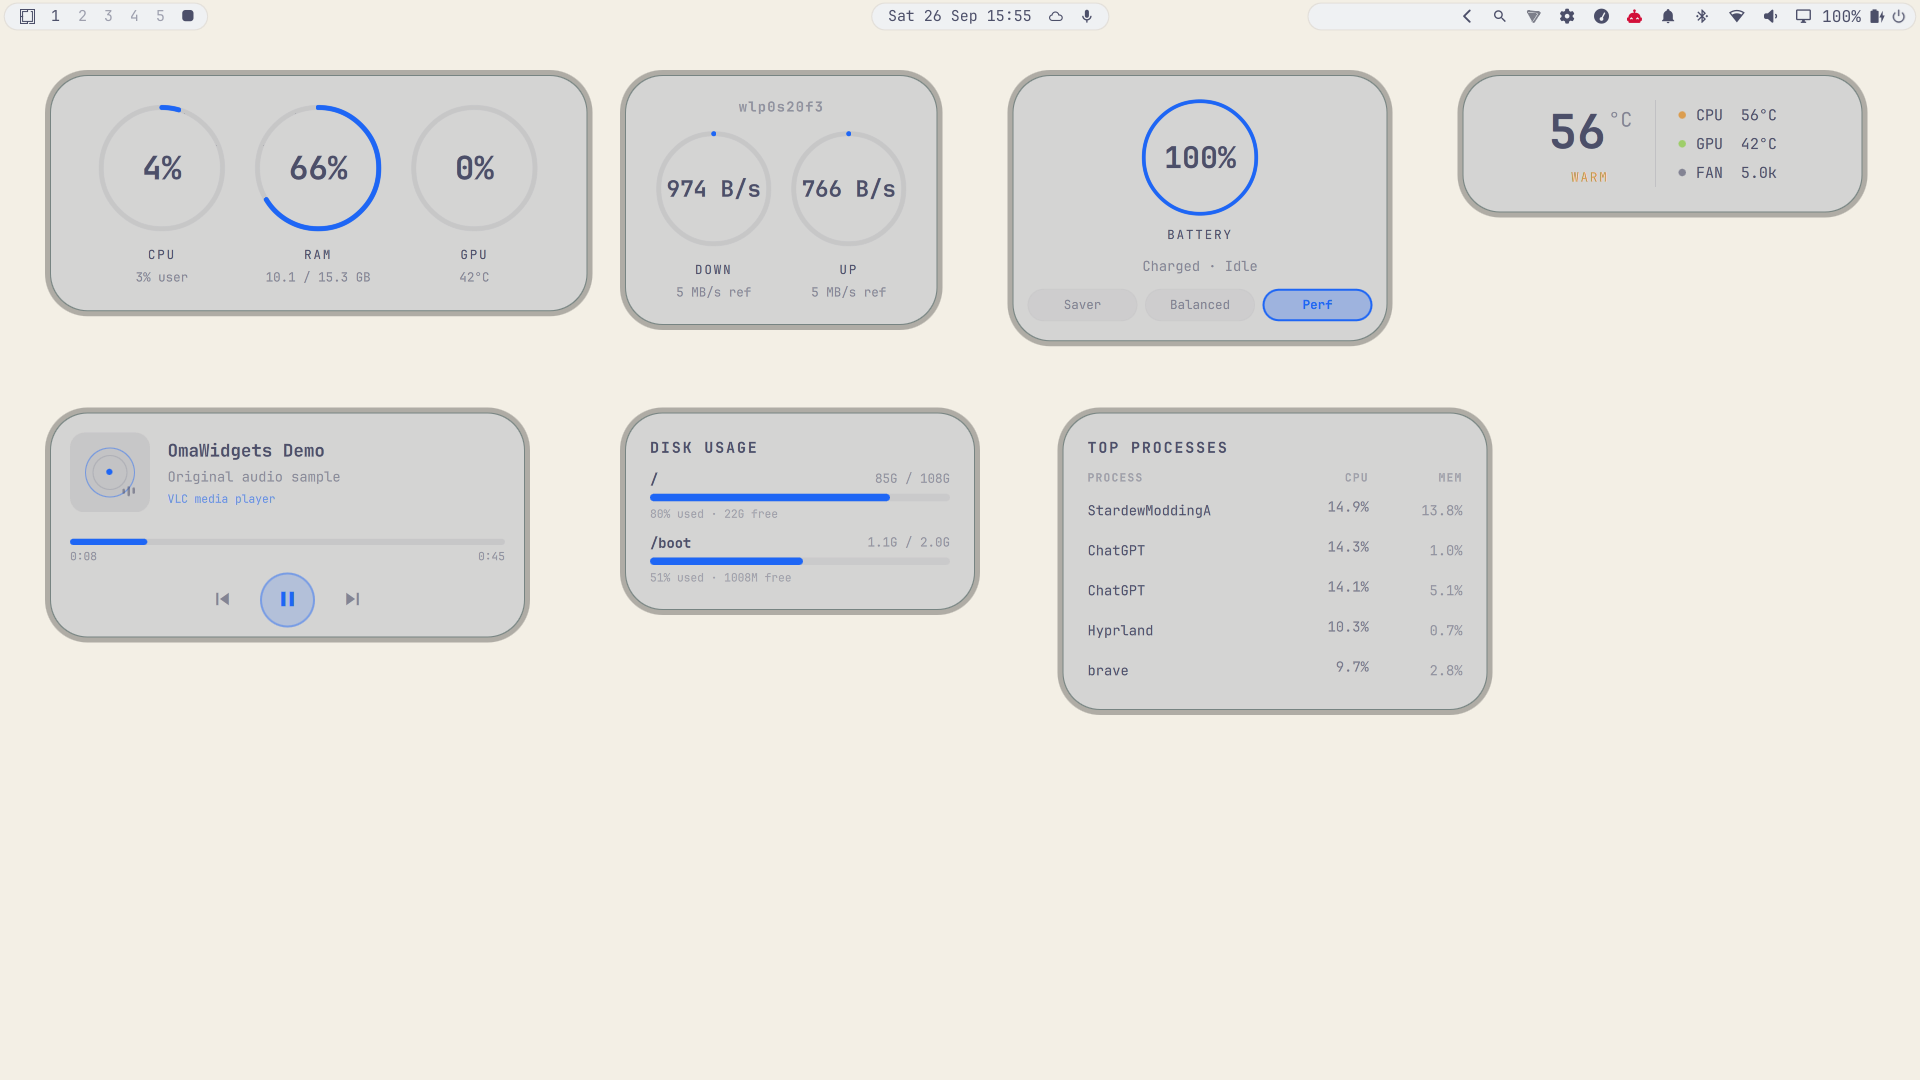
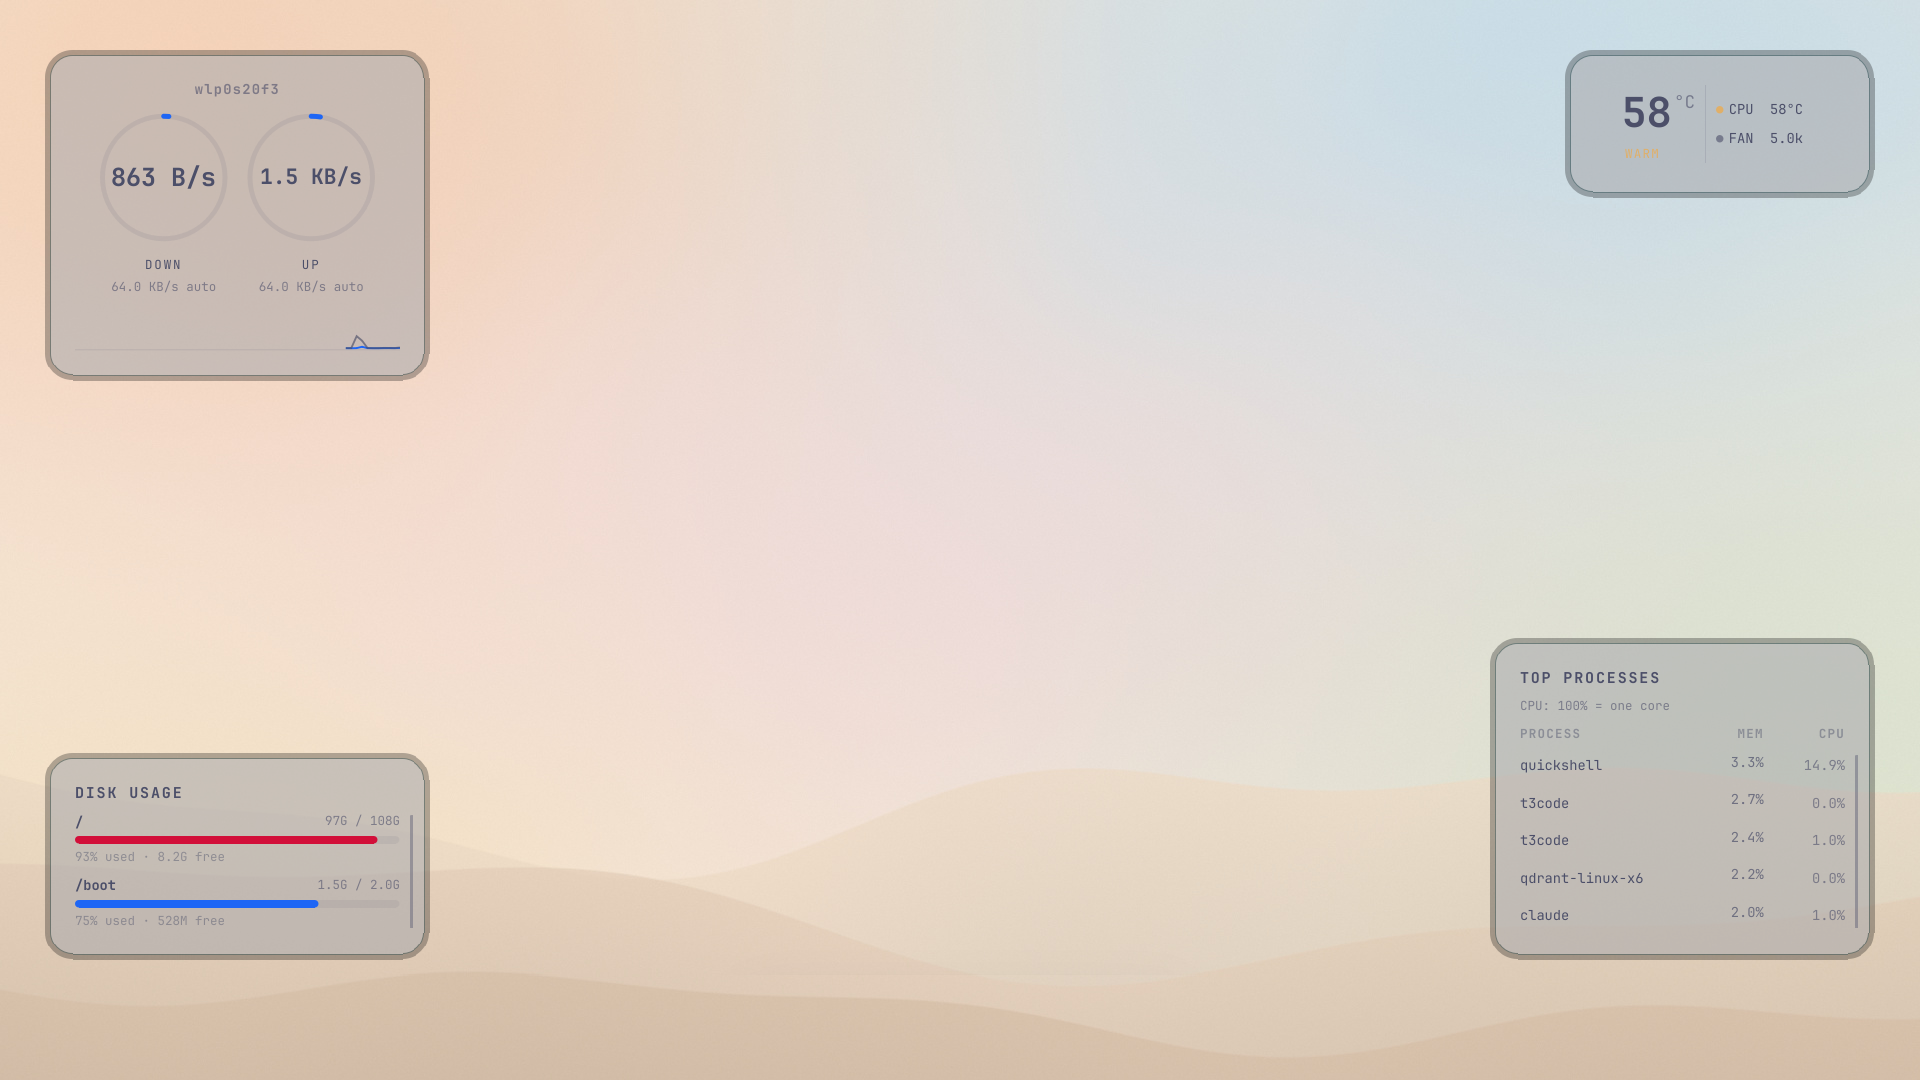
Refresh screenshots, add a marketplace poster and original wallpapers
preview.png is now a designed thumbnail for the Omarchy plugin
marketplace, built from real card captures. The desktop screenshots
use minimal real-size layouts on original generated wallpapers.

diff --git a/README.md b/README.md
@@ -13,10 +13,10 @@
 </p>
 
 <p align="center">
-  <img src="assets/omaglimpse-desktop.png" alt="OmaGlimpse cards on one Omarchy desktop" width="900">
+  <img src="preview.png" alt="OmaGlimpse: theme-aware desktop widgets for Omarchy" width="900">
 </p>
 
-<p align="center"><em>All seven cards on one desktop in Omarchy's Catppuccin theme. The media card is playing an original demo audio sample.</em></p>
+<p align="center"><em>System Monitor, Media, Battery and Temperature in Omarchy's Japan Night theme. The media card is playing an original demo audio sample.</em></p>
 
 ## Highlights
 
@@ -46,10 +46,12 @@ Every card can also be moved, resized, given an opacity and, optionally, set to 
 
 <table>
   <tr>
-    <td align="center"><img src="assets/omaglimpse-desktop.png" alt="OmaGlimpse in Omarchy's Catppuccin theme" width="440"><br><sub>Catppuccin (dark)</sub></td>
-    <td align="center"><img src="assets/omaglimpse-light.png" alt="OmaGlimpse in Omarchy's Catppuccin Latte theme" width="440"><br><sub>Catppuccin Latte (light)</sub></td>
+    <td align="center"><img src="assets/omaglimpse-desktop.png" alt="A minimal four-card OmaGlimpse layout in Omarchy's Japan Night theme" width="440"><br><sub>Japan Night (dark)</sub></td>
+    <td align="center"><img src="assets/omaglimpse-light.png" alt="Network, disk, process and temperature cards in Omarchy's Catppuccin Latte theme" width="440"><br><sub>Catppuccin Latte (light)</sub></td>
   </tr>
 </table>
+
+<p align="center"><sub>Wallpapers in these screenshots are original artwork made for this repo (<code>assets/wallpapers/</code>).</sub></p>
 
 <p align="center">
   <img src="assets/omaglimpse-vs-btop.png" alt="OmaGlimpse beside btop on an Omarchy desktop" width="900"><br>
